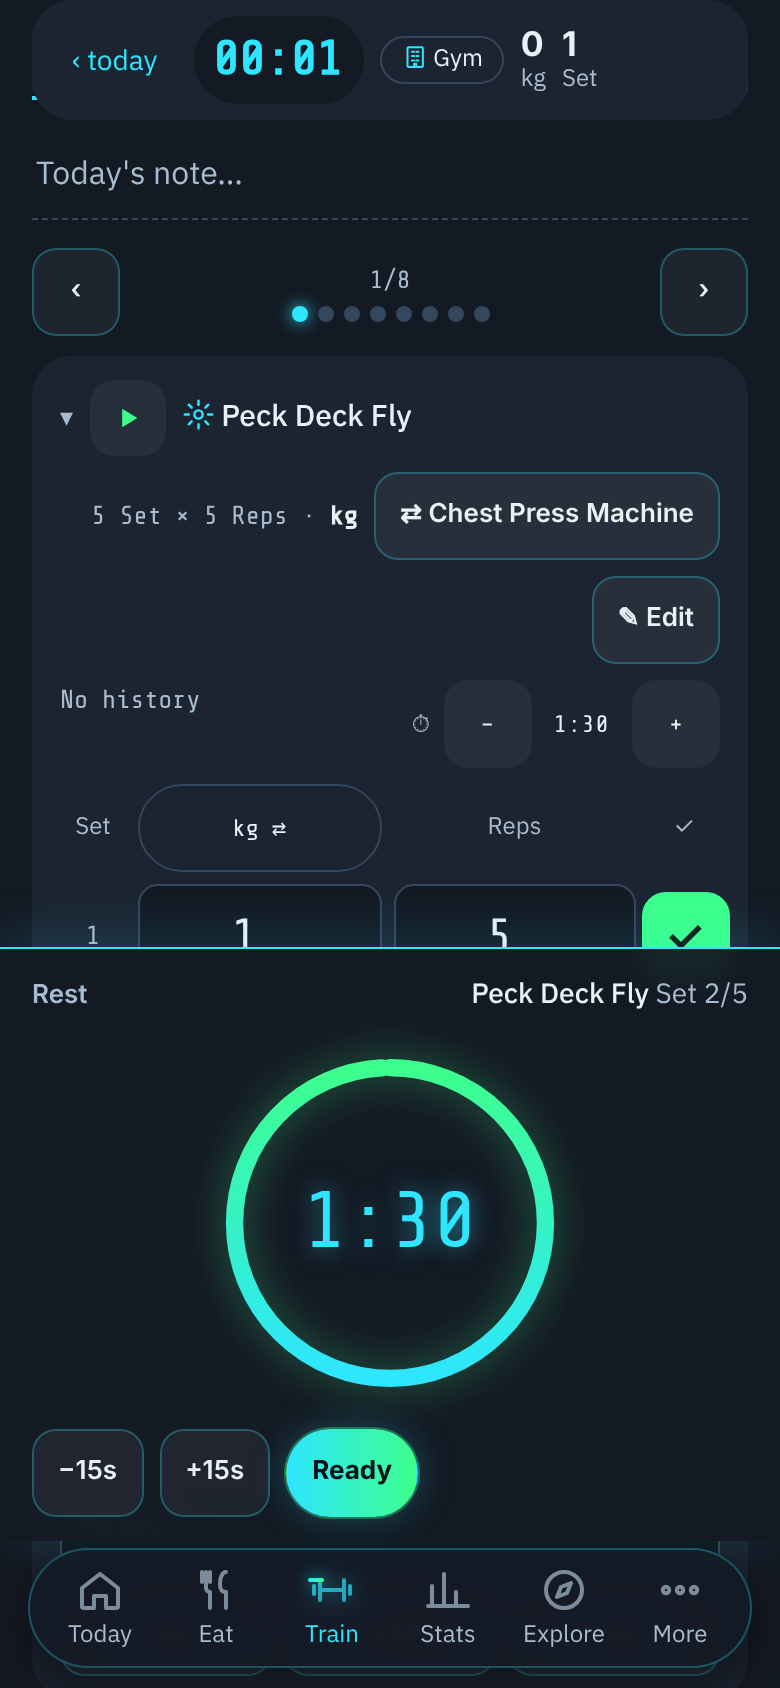
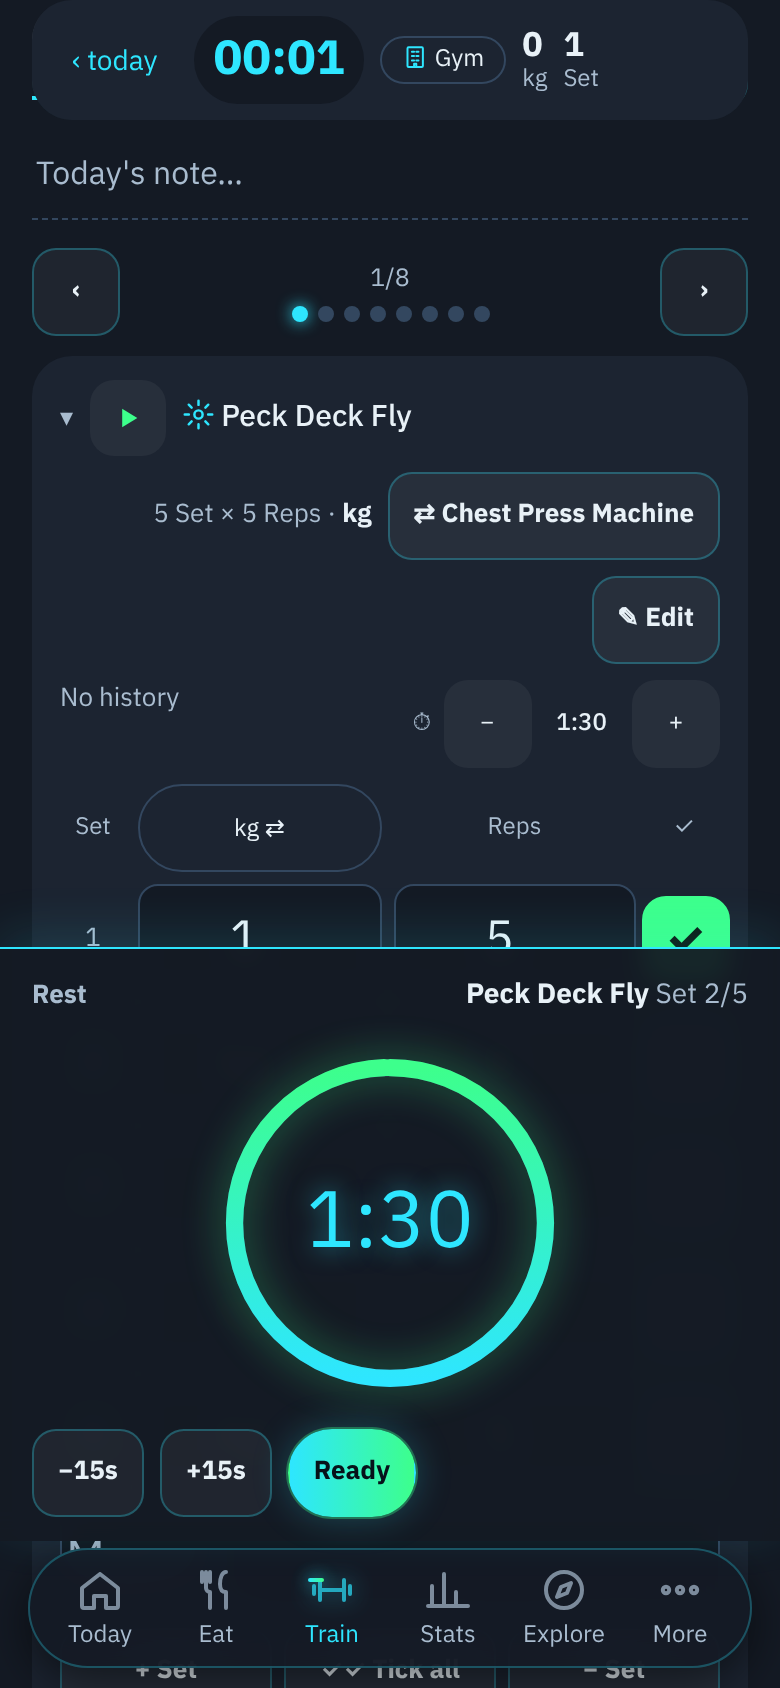
Train: one typeface everywhere (#154)
* docs: Today critique snapshot + redesign intent

Claude-Session: https://claude.ai/code/session_01TA1QFnqgBxBRFsiXemJ9Lg

* chore: ignore impeccable live-server state

Claude-Session: https://claude.ai/code/session_01TA1QFnqgBxBRFsiXemJ9Lg

* Today: plan first, one start button, inline meal tick, folded recovery

Claude-Session: https://claude.ai/code/session_01TA1QFnqgBxBRFsiXemJ9Lg

* docs: merge PR automatically once npm test passes

Claude-Session: https://claude.ai/code/session_01TA1QFnqgBxBRFsiXemJ9Lg

* docs: no OK wait between steps

Claude-Session: https://claude.ai/code/session_01TA1QFnqgBxBRFsiXemJ9Lg

* Today: recovery-aware start, undo on meal tick, progress bars, direct start

Claude-Session: https://claude.ai/code/session_01TA1QFnqgBxBRFsiXemJ9Lg

* Today: rested program leads, rest-day exit, inline meal cancel, over-target bar

Claude-Session: https://claude.ai/code/session_01TA1QFnqgBxBRFsiXemJ9Lg

* Today: body weight + 7-day change + weigh-in in the body card

Claude-Session: https://claude.ai/code/session_01TA1QFnqgBxBRFsiXemJ9Lg

* Today: body card shows weight, muscle mass and body fat

Claude-Session: https://claude.ai/code/session_01TA1QFnqgBxBRFsiXemJ9Lg

* Today: weigh-in opens the full body-log sheet

Claude-Session: https://claude.ai/code/session_01TA1QFnqgBxBRFsiXemJ9Lg

* Today: headline matches suggestion, inline cancel, blank weigh-in, fits above tab bar

Claude-Session: https://claude.ai/code/session_01TA1QFnqgBxBRFsiXemJ9Lg
[…]

diff --git a/public/index.html b/public/index.html
@@ -8,11 +8,11 @@
 <meta name="apple-mobile-web-app-status-bar-style" content="black-translucent">
 <meta name="apple-mobile-web-app-title" content="WeightGram">
 <link rel="manifest" href="/manifest.webmanifest">
-<link rel="apple-touch-icon" href="/apple-touch-icon.png?v=138576">
+<link rel="apple-touch-icon" href="/apple-touch-icon.png?v=138577">
 <title>WeightGram</title>
 <link rel="stylesheet" href="https://fonts.googleapis.com/css2?family=IBM+Plex+Sans+Thai:wght@400;500;700&family=IBM+Plex+Mono:wght@400;500&family=Share+Tech+Mono&display=swap">
 <style>:root{padding-top:env(safe-area-inset-top,0px);padding-bottom:env(safe-area-inset-bottom,0px)}*{-webkit-tap-highlight-color:transparent}body{margin:0;font-size:var(--t-sm);font-family:system-ui,sans-serif}img{max-width:100%}[hidden]{display:none!important}</style>
-<link rel="stylesheet" href="/css/app.css?v=138576">
+<link rel="stylesheet" href="/css/app.css?v=138577">
 </head><body>
 
 <div class="wrap">
@@ -277,37 +277,37 @@
   </div>
 </div>
 
-<script src="/js/core.js?v=138576"></script>
-<script src="/js/food.js?v=138576"></script>
-<script src="/js/locations.js?v=138576"></script>
-<script src="/js/programs.js?v=138576"></script>
-<script src="/js/run.js?v=138576"></script>
-<script src="/js/workout.js?v=138576"></script>
-<script src="/js/exercise-edit.js?v=138576"></script>
-<script src="/js/edit-tx.js?v=138576"></script>
-<script src="/js/exercise-library.js?v=138576"></script>
-<script src="/js/program-manager.js?v=138576"></script>
-<script src="/js/hero.js?v=138576"></script>
-<script src="/js/rest-timer.js?v=138576"></script>
-<script src="/js/auth.js?v=138576"></script>
-<script src="/js/push.js?v=138576"></script>
-<script src="/js/data-io.js?v=138576"></script>
-<script src="/js/sync.js?v=138576"></script>
-<script src="/js/muscle-map.js?v=138576"></script>
-<script src="/js/progress.js?v=138576"></script>
-<script src="/js/history-chart.js?v=138576"></script>
-<script src="/js/stats-extra.js?v=138576"></script>
-<script src="/js/meal-plan.js?v=138576"></script>
-<script src="/js/undo.js?v=138576"></script>
-<script src="/js/home.js?v=138576"></script>
-<script src="/js/share.js?v=138576"></script>
-<script src="/js/explore.js?v=138576"></script>
-<script src="/js/onboarding.js?v=138576"></script>
-<script src="/js/account.js?v=138576"></script>
-<script src="/js/share-card.js?v=138576"></script>
-<script src="/js/number-pad.js?v=138576"></script>
-<script src="/js/refresh.js?v=138576"></script>
-<script src="/js/app.js?v=138576"></script>
+<script src="/js/core.js?v=138577"></script>
+<script src="/js/food.js?v=138577"></script>
+<script src="/js/locations.js?v=138577"></script>
+<script src="/js/programs.js?v=138577"></script>
+<script src="/js/run.js?v=138577"></script>
+<script src="/js/workout.js?v=138577"></script>
+<script src="/js/exercise-edit.js?v=138577"></script>
+<script src="/js/edit-tx.js?v=138577"></script>
+<script src="/js/exercise-library.js?v=138577"></script>
+<script src="/js/program-manager.js?v=138577"></script>
+<script src="/js/hero.js?v=138577"></script>
+<script src="/js/rest-timer.js?v=138577"></script>
+<script src="/js/auth.js?v=138577"></script>
+<script src="/js/push.js?v=138577"></script>
+<script src="/js/data-io.js?v=138577"></script>
+<script src="/js/sync.js?v=138577"></script>
+<script src="/js/muscle-map.js?v=138577"></script>
+<script src="/js/progress.js?v=138577"></script>
+<script src="/js/history-chart.js?v=138577"></script>
+<script src="/js/stats-extra.js?v=138577"></script>
+<script src="/js/meal-plan.js?v=138577"></script>
+<script src="/js/undo.js?v=138577"></script>
+<script src="/js/home.js?v=138577"></script>
+<script src="/js/share.js?v=138577"></script>
+<script src="/js/explore.js?v=138577"></script>
+<script src="/js/onboarding.js?v=138577"></script>
+<script src="/js/account.js?v=138577"></script>
+<script src="/js/share-card.js?v=138577"></script>
+<script src="/js/number-pad.js?v=138577"></script>
+<script src="/js/refresh.js?v=138577"></script>
+<script src="/js/app.js?v=138577"></script>
 
 <div id="rec-wrap" class="stack" style="gap:10px" hidden><div class="rcf-head"><div class="sec-t" data-i="การฟื้นตัวของกล้ามเนื้อ">การฟื้นตัวของกล้ามเนื้อ</div><button class="btn sm" id="rec-cfg">⚙ <span data-i="ตั้งเวลาฟื้นตัว">ตั้งเวลาฟื้นตัว</span></button></div><div class="card" id="rec-body"></div></div>
 </body></html>

diff --git a/public/css/app.css b/public/css/app.css
@@ -1378,3 +1378,6 @@ body:has(#tx-bar:not([hidden])) #v-gym .wo-bar,body:has(.tx-bar:not([hidden])) #
 body.on-gym.wo-focus .tx-bar{bottom:var(--tabh)!important}
 /* while the rest timer is up, Cancel / Finish & save are hidden — close the timer (Ready) first (user request) */
 .wrap.has-rest #v-gym .wo-bar{display:none!important}
+/* Train: one typeface everywhere (no mono mixed in) — numbers keep equal widths */
+#v-gym,#v-gym *:not(svg):not(svg *),#rest,#rest *:not(svg):not(svg *),#pad,#pad *{font-family:var(--f-body)!important;letter-spacing:0!important;text-transform:none!important;font-variant-numeric:tabular-nums}
+#v-gym .wo-top b,#v-gym #wo-clock,#rest b{font-weight:700}

diff --git a/docs/work/2026-11-21-train-calm/plan.md b/docs/work/2026-11-21-train-calm/plan.md
@@ -34,3 +34,6 @@
 ## Rest timer first (user request, replaces #150 behaviour)
 - while the rest timer is up, Cancel / Finish & save are hidden; close it with Ready (or let it finish) and the bar comes back
 - rest sheet back to sitting directly on the tab bar; smoke test renamed workout-rest-then-cancel (bar hidden during rest → Ready → bar back → Cancel)
+
+## One typeface on Train (user request)
+- #v-gym, rest sheet and number pad use the body font everywhere (no mono mixed in: "5 Set × 5 Reps", "No history", set numbers, clock, pad); tabular numbers keep digits aligned
